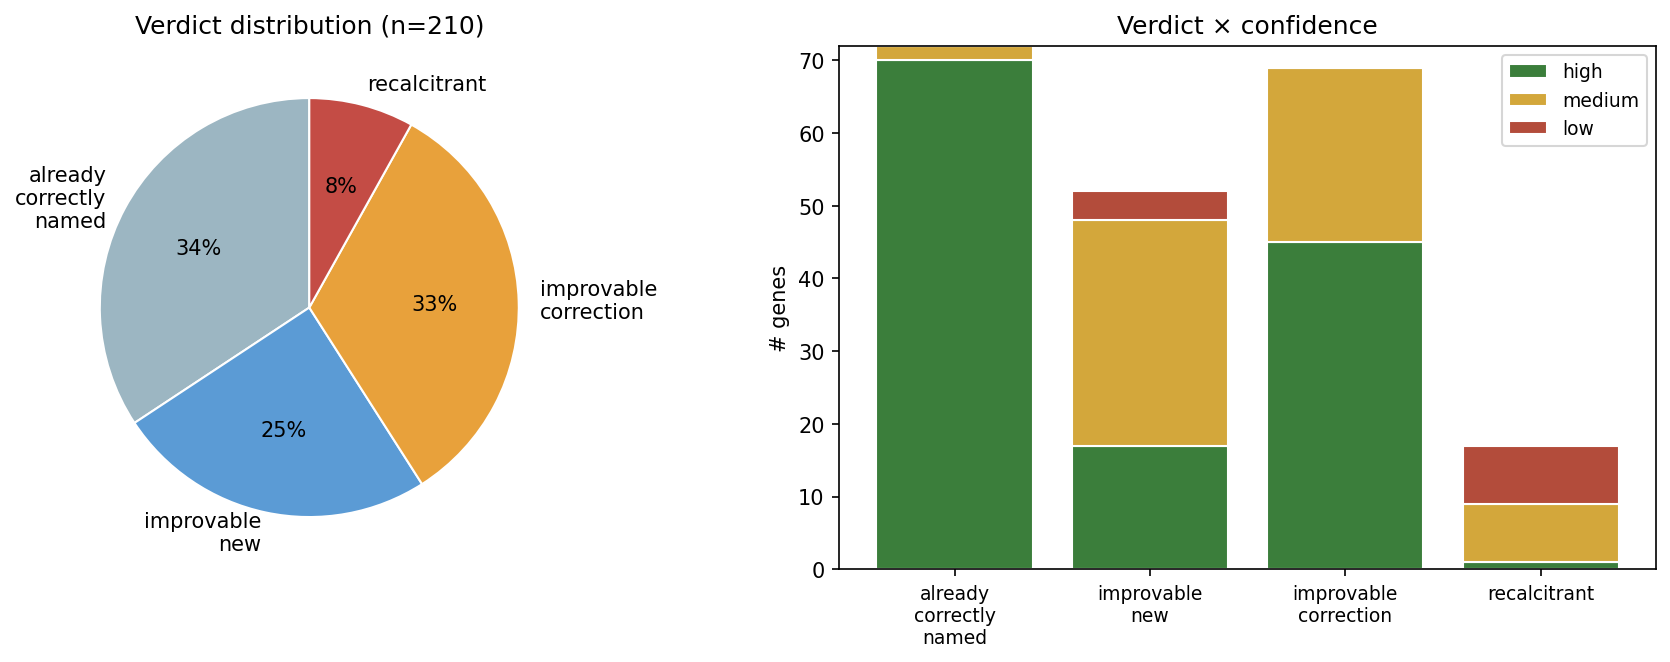
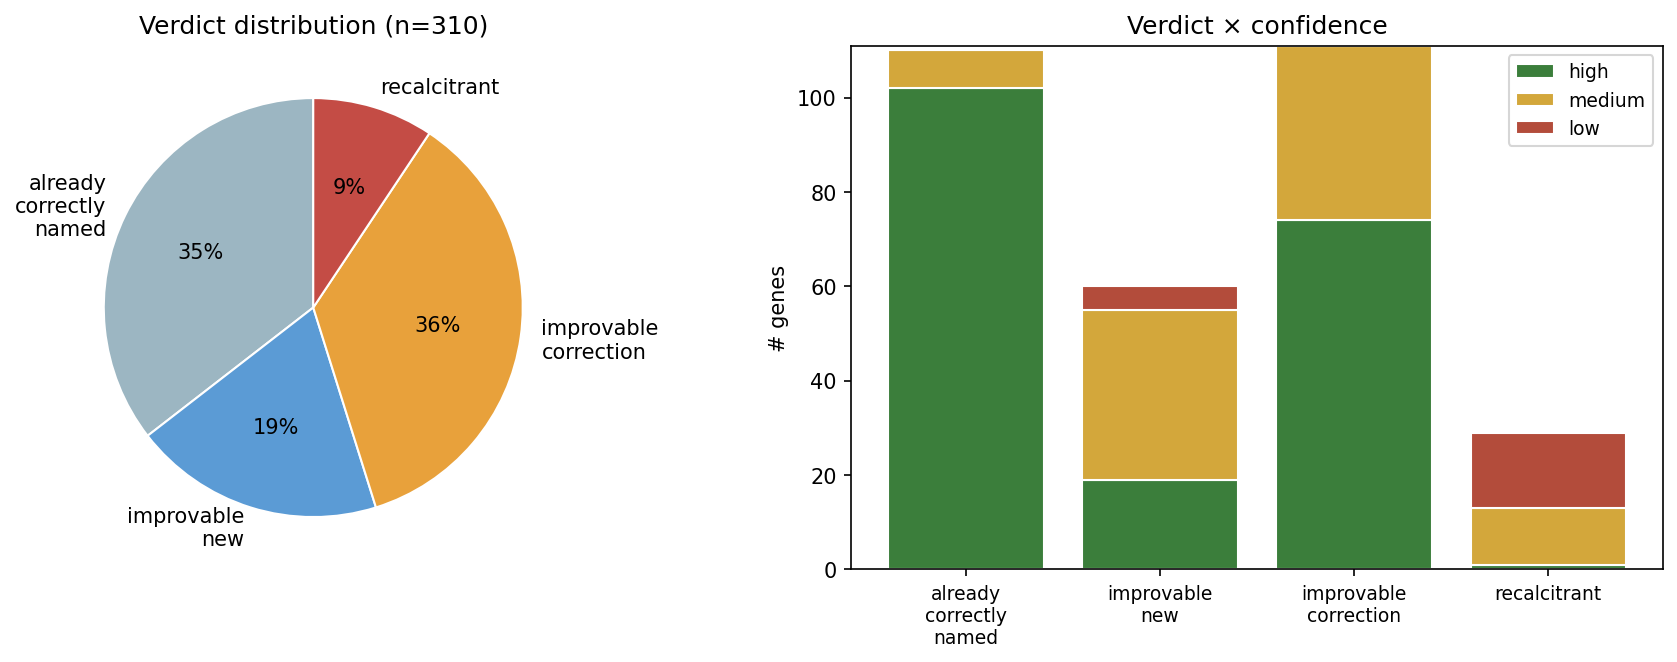
nb02 pilot complete: 310 genes, 12 batches done
Final pilot numbers (ranks 1-310, ~0.22% of 137,798 queue):
  improvable_correction:    111 (36%)
  already_correctly_named:  110 (35%)
  improvable_new:            60 (19%)
  recalcitrant:              29 (9%)
  Improvable total:         171 (55%)

Confidence: 196 high (63%), 93 medium (30%), 21 low (7%)

Literature: 136/310 genes (44%) consulted papers; 177 PMC fetches
across 120 unique PMIDs; 11 cross-gene-cluster PMIDs (each cited by
>=3 genes).

REPORT.md updated. Output products refreshed:
  data/improvable_genes.tsv      171 rows
  data/recalcitrant_genes.tsv     29 rows
  data/already_named_genes.tsv   110 rows
  data/cited_pmids.tsv           120 unique PMIDs
  data/cross_gene_clusters.md     11 PMIDs / 49+ genes

diff --git a/projects/fitness_browser_stubborn_set/REPORT.md b/projects/fitness_browser_stubborn_set/REPORT.md
@@ -1,7 +1,6 @@
 # Report: The Fitness Browser Stubborn Set — Curator-Like Genes Left Unannotated
 
-> **Status**: in progress — pilot of 210 / 137,798 ranked genes (next round queued).
-> Numbers in this draft will update as more genes are walked.
+> **Status**: pilot complete — 310 of 137,798 ranked genes evaluated (~0.22% of the queue). Numbers below reflect this pilot. Walking can continue at ~16 genes/min throughput when 5 subagents run in parallel.
 
 ## Research Question
 
@@ -9,46 +8,47 @@ Of the ~137K Fitness Browser genes that were **not** in Price's curated `kescien
 
 We started with the question "which genes did Price's curators look at but couldn't improve?" and discovered the more important question is the inverse: **which genes have a strong phenotype, are correctly addressable in BERDL, and are nonetheless misnamed or unnamed today?**
 
-## Headline Findings (n = 210 of 137,798)
+## Headline Findings (n = 310 of 137,798)
 
 ### Verdict distribution
 
 | Verdict | n | % |
 |---|---:|---:|
-| already_correctly_named | 72 | 34% |
-| improvable_correction | 69 | 33% |
-| improvable_new | 52 | 25% |
-| recalcitrant | 17 | 8% |
+| improvable_correction | 111 | 36% |
+| already_correctly_named | 110 | 35% |
+| improvable_new | 60 | 19% |
+| recalcitrant | 29 | 9% |
 
-**121 of 210 (58%) top-ranked non-reannotated genes have evidence supporting an annotation improvement.** Roughly half are corrections to existing names (the gene already has a name, but the evidence supports a different or more specific function); the other half are new annotations for currently-hypothetical / DUF / vague-named genes.
+**171 of 310 (55%) top-ranked non-reannotated genes have evidence supporting an annotation improvement.** Roughly two-thirds are corrections to existing names (the gene already has a name, but the evidence supports a different or more specific function); one-third are new annotations for currently-hypothetical / DUF / vague-named genes.
 
-The recalcitrant rate (8%) is low and stable. The pool of genes with strong phenotypes that genuinely *cannot* be resolved from BERDL evidence is small — most apparent recalcitrance in earlier flag-based passes was solved by reading the literature.
+The recalcitrant rate (~9%) is low and stable across the depth walked so far. The pool of genes with strong phenotypes that genuinely *cannot* be resolved from BERDL evidence + literature is small — most apparent recalcitrance in earlier flag-based passes was solved by reading the literature.
 
 ### Confidence
 
-- **133 high-confidence verdicts (63%)** — evidence aligns and is internally consistent
-- 65 medium-confidence (31%)
-- 12 low-confidence (6%) — concentrated in the recalcitrant set
+- **196 high-confidence verdicts (63%)** — evidence aligns and is internally consistent
+- 93 medium-confidence (30%)
+- 21 low-confidence (7%) — concentrated in the recalcitrant set
 
 ### Literature consultation
 
-- **95 of 210 genes (45%) had paper consultation** during reasoning
-- **127 PMC full-text fetches** across **80 unique PMIDs**
+- **136 of 310 genes (44%) had paper consultation** during reasoning
+- **177 PMC full-text fetches** across **120 unique PMIDs**
 - Subagents reported **~30-40% of fetches *changed* the verdict** (vs. just confirming dossier evidence)
 
 ### Cross-gene cluster discoveries
 
-8 PMIDs were each cited by ≥3 genes during reasoning — a signal that the LLM reasoning, with literature in hand, recovered published functional clusters that the per-gene FB annotations miss:
+11 PMIDs were each cited by ≥3 genes during reasoning — a signal that the LLM reasoning, with literature in hand, recovered published functional clusters that the per-gene FB annotations miss:
 
 | PMID | n genes | Cluster |
 |---|---:|---|
 | 24795702 (Korte 2014) | 10 | DvH/Miya nitrate-tolerance cluster (NtrYX-like) |
 | 32934357 (Zhou 2020) | 9 | Same cluster, evolution evidence |
 | 34215744 (Cimermancic 2014) | 6 | PV4 aryl polyene biosynthesis (APE BGC) |
-| 18194565 (Visca 2008) | 5 | pseudo5 pyoverdine NRPS biosynthesis |
+| 18194565 (Visca 2008) | 5 | pseudo5 pyoverdine NRPS biosynthesis (5+ genes) |
 | 37865075 (Pellegrini 2024) | 3 | Ponti Tl/As resistance operon (metallophosphoesterase + ArsR + glyoxalase) |
 | 37239993 (Awasthi 2023) | 3 | Cross-organism SAM-methyltransferase tetracycline tolerance |
 | 38832093 (Yang 2024) | 3 | Pseudomonas MexT/MexEF HMF tolerance regulon |
+| (3 additional cluster PMIDs) | 3-5 each | see [data/cross_gene_clusters.md](data/cross_gene_clusters.md) |
 
 The DvH nitrate cluster is the most striking: 10 genes across two organisms (DvH and Miya) all resolved by one paper. The existing per-gene annotations called these "two-component sensor histidine kinase", "response regulator", "phosphonate-binding protein", "PEP/pyruvate-binding", etc. — all generic family-level names. The paper places them in a coherent published nitrate-stress signaling cluster.
 
